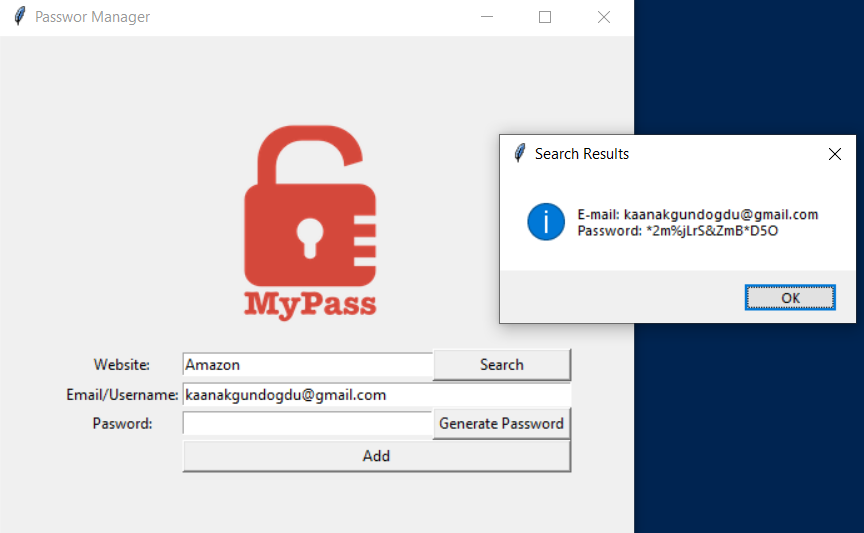
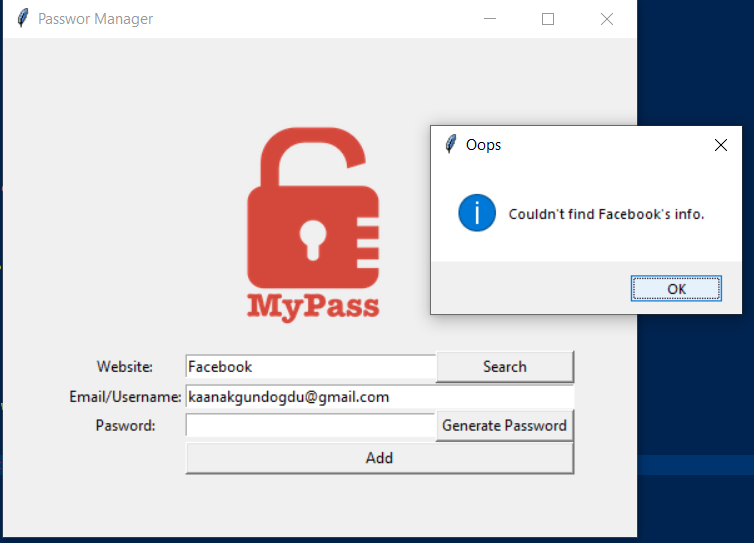
Search in json func updated.

diff --git a/app/main.py b/app/main.py
@@ -53,16 +53,19 @@ def search():
     try:
         with open("app\passwords.json", "r") as data_file:
             data = json.load(data_file)
+    except:
+        messagebox.showinfo(
+            title="ERROR", message=f"There is no data file")
+    else:
+        if website in data:
             search_data = data[website]
             email_ = search_data["email"]
             password_ = search_data["password"]
             messagebox.showinfo(
-                title="Search Results", message=f"E-mail: {email_}\nPassword: {password_}")
-        return
-    except:
-        messagebox.showinfo(
-            title="Oops", message=f"There is no site such as {website}")
-
+                title=f"{website} Email and Password", message=f"E-mail: {email_}\nPassword: {password_}")
+        else:
+            messagebox.showinfo(
+                title="Oops", message=f"Couldn't find {website}'s info.")
 # ---------------------------- UI SETUP ------------------------------- #
 
 
